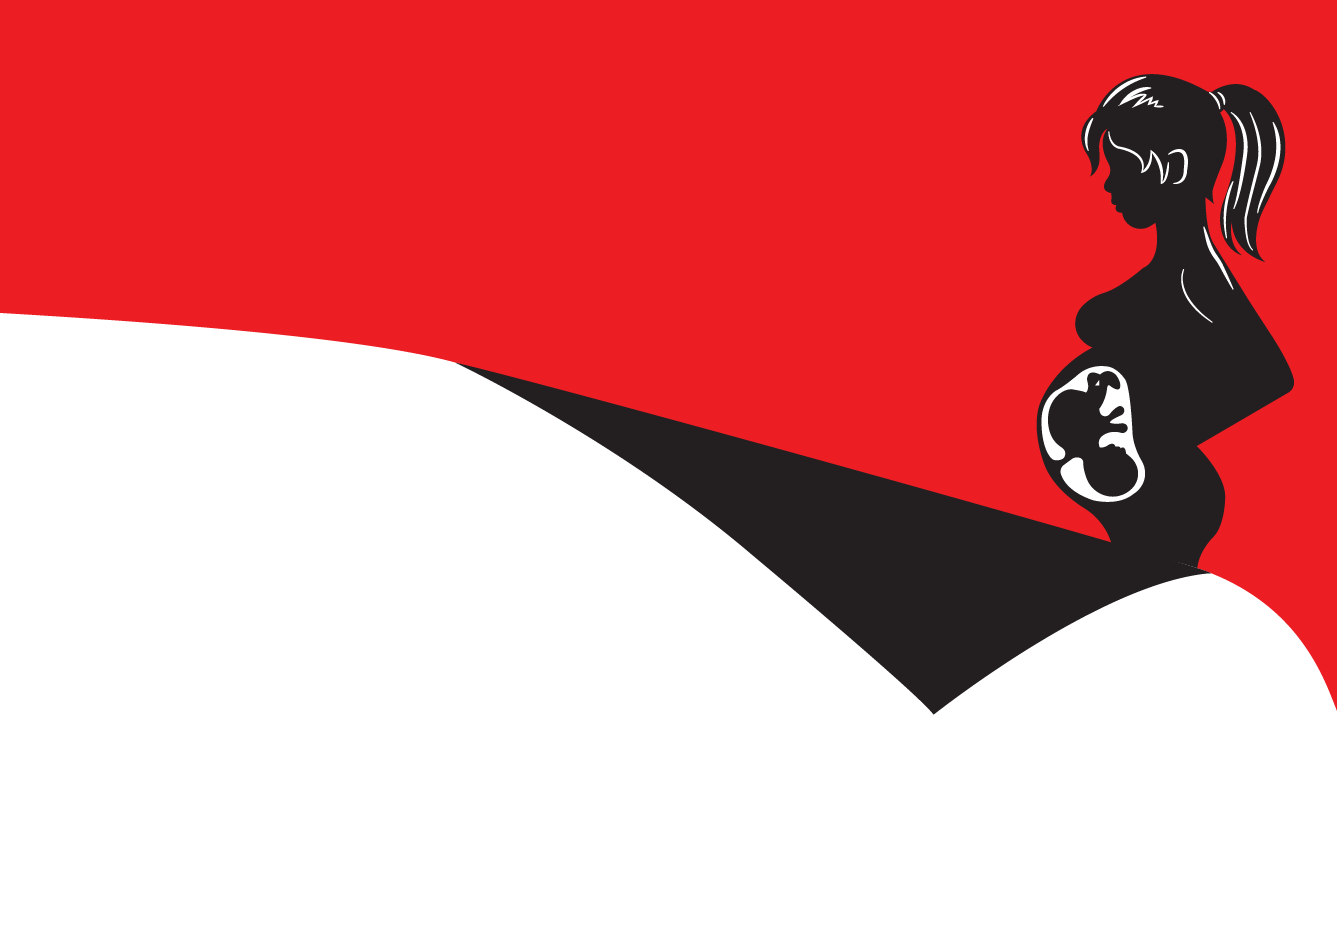
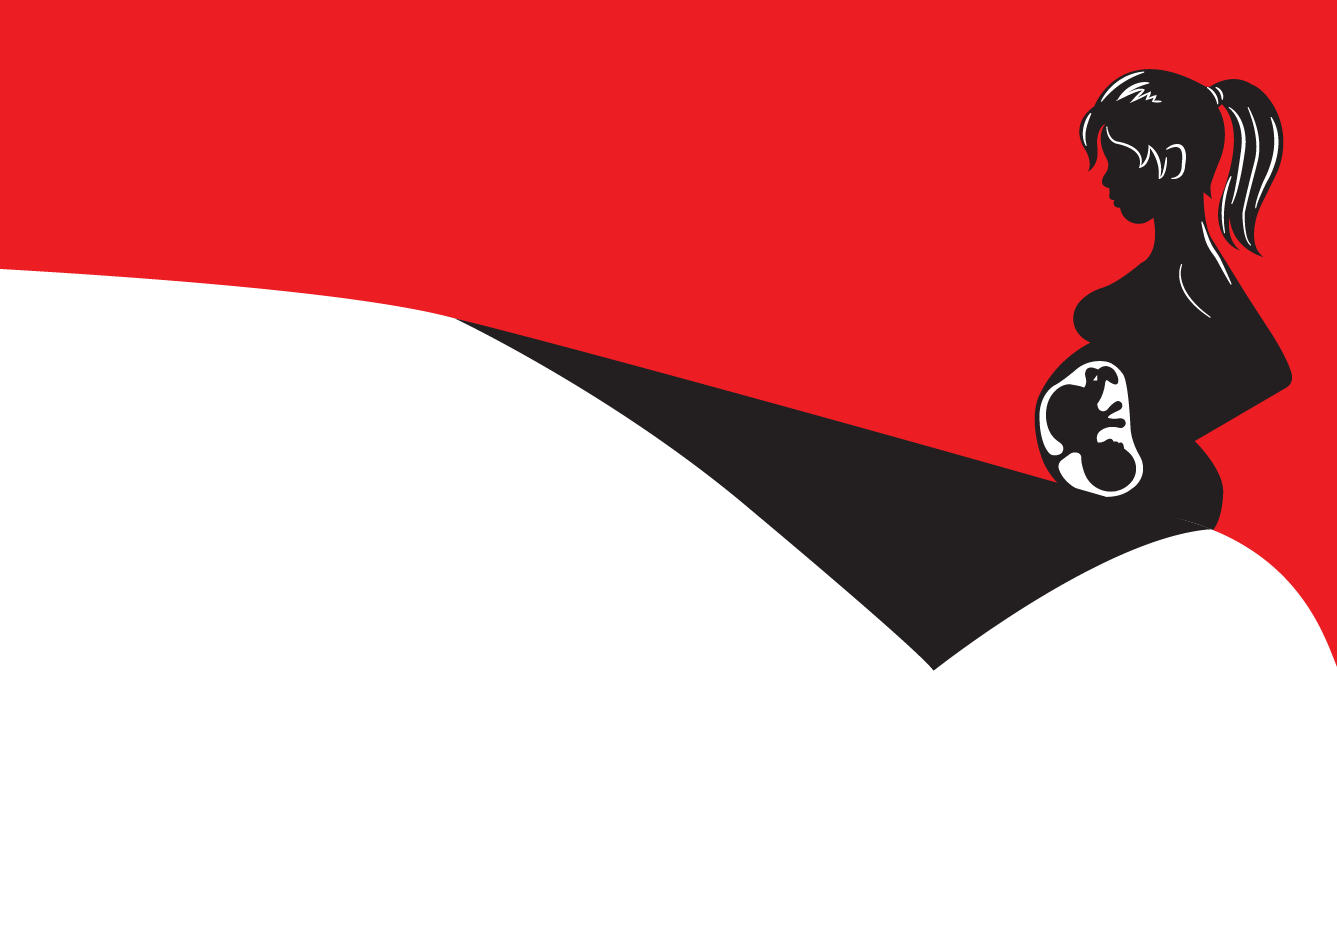
adjusted the balance of the hero on desktop

diff --git a/index.html b/index.html
@@ -76,8 +76,8 @@
         <div class="point">
           <h4 id="first-point-header">It isn't easy</h4>
           <p id="first-point-body">
-            Pregnancy isn't an easy thing for a woman to go through. Through the
-            9 months, a woman will experience weight gain, increased heart
+            Pregnancy isn't an easy thing for a woman to go through. Throughout
+            the 9 months, a woman will experience weight gain, increased heart
             functions, changes in hormones, and much more. It is not an easy
             life change and can result in health risks if the pregnancy goes
             wrong.

diff --git a/sass/input.scss b/sass/input.scss
@@ -116,7 +116,7 @@ main {
       font-family: "Bebas Nue";
       color: #ec1e24;
       font-size: 9rem;
-      margin-top: 20rem;
+      margin-top: 18rem;
       margin-left: 3rem;
       line-height: 80%;
 

diff --git a/css/style.css b/css/style.css
@@ -112,7 +112,7 @@ main .hero h1 {
   font-family: "Bebas Nue";
   color: #ec1e24;
   font-size: 9rem;
-  margin-top: 20rem;
+  margin-top: 18rem;
   margin-left: 3rem;
   line-height: 80%;
 }
